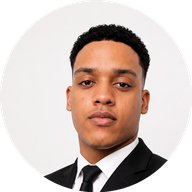
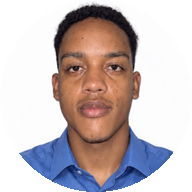
feat: rebrand completo - servicios ampliados, proceso, foto nueva
- Hero: Full-Stack Developer & Soluciones Digitales (no solo web)
- Servicios: Software, Web, IA, Ads, Seguridad (5 core)
- Sección Proceso de trabajo: Descubrimiento, Estrategia, Construcción, Lanzamiento
- Orden: Hero > Proyectos > Servicios > Proceso > Experiencia > Skills > Contacto
- Nueva foto de perfil (circular, centrada en cara)
- Favicon circular con nueva foto
- Botón idioma: muestra idioma actual (ES/EN), no el destino
- Traducciones es/en/fr actualizadas

diff --git a/src/app/shared/components/services-card/services-card.component.ts b/src/app/shared/components/services-card/services-card.component.ts
@@ -12,30 +12,25 @@ import { TechIconService } from '../../../core/services/tech-icon.service';
     <div class="p-7 h-full flex flex-col justify-between">
       <div>
         <p class="font-mono text-[10px] tracking-[0.2em] text-amber-500 uppercase font-semibold mb-1">{{ 'srv.badge' | t }}</p>
-        <h3 class="text-xl font-bold font-display text-slate-900 dark:text-white mb-4">{{ 'services.title' | t }}</h3>
+        <h3 class="text-xl font-bold font-display text-slate-900 dark:text-white mb-1">{{ 'services.title' | t }}</h3>
+        <p class="text-xs text-slate-500 dark:text-slate-400 mb-4">{{ 'services.subtitle' | t }}</p>
 
         <div class="space-y-1.5">
           @for (service of services; track service.title) {
             <div>
-              <!-- Service row (clickable) -->
               <button
                 type="button"
                 (click)="toggle(service.title)"
-                class="w-full flex items-center justify-between px-3.5 py-2 rounded-xl bg-slate-50/60 dark:bg-slate-900/40 border border-slate-100 dark:border-slate-800/60 hover:border-amber-500/40 hover:bg-amber-500/[0.04] transition-all duration-200 group cursor-pointer text-left"
+                class="w-full flex items-center justify-between px-3.5 py-2.5 rounded-xl bg-slate-50/60 dark:bg-slate-900/40 border border-slate-100 dark:border-slate-800/60 hover:border-amber-500/40 hover:bg-amber-500/[0.04] transition-all duration-200 group cursor-pointer text-left"
               >
                 <div class="flex items-center gap-3">
                   <span class="w-4 h-4 text-amber-500 flex-shrink-0" [innerHTML]="getIconSafe(service.icon)"></span>
                   <span class="text-xs font-medium text-slate-700 dark:text-slate-300 group-hover:text-slate-900 dark:group-hover:text-white transition-colors">{{ service.title | t }}</span>
                 </div>
-                <svg
-                  class="w-3.5 h-3.5 text-slate-300 dark:text-slate-600 group-hover:text-amber-500 transition-all duration-200"
-                  [class.rotate-90]="isOpen(service.title)"
-                  fill="none" stroke="currentColor" viewBox="0 0 24 24">
+                <svg class="w-3.5 h-3.5 text-slate-300 dark:text-slate-600 group-hover:text-amber-500 transition-all duration-200" [class.rotate-90]="isOpen(service.title)" fill="none" stroke="currentColor" viewBox="0 0 24 24">
                   <path stroke-linecap="round" stroke-linejoin="round" stroke-width="2" d="M9 5l7 7-7 7"/>
                 </svg>
               </button>
-
-              <!-- Expanded description -->
               @if (isOpen(service.title)) {
                 <div class="px-3.5 pt-2 pb-1 pl-10 text-xs text-slate-500 dark:text-slate-400 leading-relaxed animate-fade-in">
                   {{ service.desc | t }}
@@ -46,9 +41,8 @@ import { TechIconService } from '../../../core/services/tech-icon.service';
         </div>
       </div>
 
-      <div class="pt-3 mt-4 border-t border-slate-100 dark:border-slate-800/80 flex items-center justify-between text-[11px] text-slate-400 dark:text-slate-500">
-        <span>Soluciones a medida</span>
-        <span class="text-amber-500 font-semibold">100% Personalizado</span>
+      <div class="pt-3 mt-4 border-t border-slate-100 dark:border-slate-800/80 text-[11px] text-slate-400 dark:text-slate-500">
+        Soluciones digitales completas, desde la idea hasta la implementación.
       </div>
     </div>
   `
@@ -56,15 +50,14 @@ import { TechIconService } from '../../../core/services/tech-icon.service';
 export class ServicesCardComponent {
   private techIconService = inject(TechIconService);
   private sanitizer = inject(DomSanitizer);
-
   openService = signal<string | null>(null);
 
   services = [
-    { title: 'srv.2.title', desc: 'srv.2.desc', icon: 'Angular' },
-    { title: 'srv.6.title', desc: 'srv.6.desc', icon: 'Móvil' },
-    { title: 'srv.7.title', desc: 'srv.7.desc', icon: 'SaaS' },
-    { title: 'srv.8.title', desc: 'srv.8.desc', icon: 'Google Ads' },
-    { title: 'srv.10.title', desc: 'srv.10.desc', icon: 'n8n' }
+    { title: 'srv.core.software.title', desc: 'srv.core.software.desc', icon: 'Software' },
+    { title: 'srv.core.web.title', desc: 'srv.core.web.desc', icon: 'Angular' },
+    { title: 'srv.core.ai.title', desc: 'srv.core.ai.desc', icon: 'n8n' },
+    { title: 'srv.core.ads.title', desc: 'srv.core.ads.desc', icon: 'Google Ads' },
+    { title: 'srv.core.security.title', desc: 'srv.core.security.desc', icon: 'Seguridad' }
   ];
 
   toggle(title: string): void {

diff --git a/src/app/features/bento/bento.component.ts b/src/app/features/bento/bento.component.ts
@@ -6,6 +6,7 @@ import { SkillsCardComponent } from '../../shared/components/skills-card/skills-
 import { ExperienceCardComponent } from '../../shared/components/experience-card/experience-card.component';
 import { ServicesCardComponent } from '../../shared/components/services-card/services-card.component';
 import { ContactCardComponent } from '../../shared/components/contact-card/contact-card.component';
+import { TranslatePipe } from '../../core/i18n/translate.pipe';
 import { KEVIN_PROJECTS } from '../../core/models/project.model';
 
 @Component({
@@ -14,7 +15,7 @@ import { KEVIN_PROJECTS } from '../../core/models/project.model';
   imports: [
     CommonModule, HeroComponent, ProjectCardComponent,
     SkillsCardComponent, ExperienceCardComponent, ServicesCardComponent,
-    ContactCardComponent
+    ContactCardComponent, TranslatePipe
   ],
   template: `
     <section class="w-full max-w-6xl mx-auto px-4 md:px-6 py-10 md:py-16">
@@ -54,9 +55,29 @@ import { KEVIN_PROJECTS } from '../../core/models/project.model';
           <app-project-card [project]="projects[3]" class="block h-full"></app-project-card>
         </div>
 
-        <!-- Skills Card -->
-        <div id="skills" class="bento-glow-card scroll-mt-24">
-          <app-skills-card></app-skills-card>
+        <!-- Services -->
+        <div id="services" class="bento-glow-card md:col-span-2 scroll-mt-24">
+          <app-services-card></app-services-card>
+        </div>
+
+        <!-- Process -->
+        <div id="process" class="bento-glow-card lg:col-span-3 scroll-mt-24 p-6 md:p-8">
+          <div class="flex flex-col md:flex-row md:items-end md:justify-between gap-2 mb-6">
+            <div>
+              <p class="font-mono text-[10px] tracking-[0.2em] text-amber-500 uppercase font-semibold mb-1">{{ 'process.badge' | t }}</p>
+              <h2 class="text-2xl md:text-3xl font-bold font-display text-slate-900 dark:text-white">{{ 'process.title' | t }}</h2>
+            </div>
+            <p class="text-sm text-slate-500 dark:text-slate-400 max-w-md">{{ 'process.subtitle' | t }}</p>
+          </div>
+          <div class="grid grid-cols-1 sm:grid-cols-2 lg:grid-cols-4 gap-4">
+            @for (step of processSteps; track step.number) {
+              <div class="relative p-4 rounded-xl border border-slate-200/80 dark:border-slate-800/70 bg-slate-50/60 dark:bg-slate-900/30">
+                <span class="text-xs font-mono text-amber-500">{{ step.number }}</span>
+                <h3 class="mt-3 text-sm font-semibold text-slate-800 dark:text-white">{{ step.title | t }}</h3>
+                <p class="mt-1.5 text-xs leading-relaxed text-slate-500 dark:text-slate-400">{{ step.desc | t }}</p>
+              </div>
+            }
+          </div>
         </div>
 
         <!-- Experience (2 cols) -->
@@ -64,9 +85,9 @@ import { KEVIN_PROJECTS } from '../../core/models/project.model';
           <app-experience-card></app-experience-card>
         </div>
 
-        <!-- Services -->
-        <div id="services" class="bento-glow-card scroll-mt-24">
-          <app-services-card></app-services-card>
+        <!-- Skills Card -->
+        <div id="skills" class="bento-glow-card scroll-mt-24">
+          <app-skills-card></app-skills-card>
         </div>
 
         <!-- Contact (Full width at bottom: 3 cols) -->
@@ -80,6 +101,13 @@ import { KEVIN_PROJECTS } from '../../core/models/project.model';
 })
 export class BentoComponent {
   projects = KEVIN_PROJECTS;
+
+  processSteps = [
+    { number: '01', title: 'process.1.title', desc: 'process.1.desc' },
+    { number: '02', title: 'process.2.title', desc: 'process.2.desc' },
+    { number: '03', title: 'process.3.title', desc: 'process.3.desc' },
+    { number: '04', title: 'process.4.title', desc: 'process.4.desc' }
+  ];
 }
 
 

diff --git a/src/app/shared/components/language-switcher/language-switcher.component.ts b/src/app/shared/components/language-switcher/language-switcher.component.ts
@@ -13,9 +13,9 @@ import { TranslationService, SupportedLanguage } from '../../../core/i18n/transl
       class="inline-flex items-center justify-center gap-1.5 px-3 py-2 min-w-[60px] xl:min-w-[100px] rounded-xl border border-slate-200 dark:border-slate-700/60 bg-white dark:bg-slate-900/50 text-sm font-semibold text-slate-500 dark:text-slate-400 hover:border-indigo-300 dark:hover:border-indigo-500/50 hover:text-indigo-600 dark:hover:text-indigo-400 transition-all duration-200 shadow-sm dark:shadow-none focus:outline-none focus:ring-2 focus:ring-indigo-500/50 focus:ring-offset-2 focus:ring-offset-white dark:focus:ring-offset-[#0a0a0f]"
       [attr.aria-label]="translationService.lang() === 'es' ? 'Switch to English' : 'Cambiar a Español'"
     >
-      <span class="text-base leading-none">{{ translationService.lang() === 'es' ? '🇺🇸' : '🇪🇸' }}</span>
-      <span class="hidden xl:inline leading-none mt-[1px] font-bold">{{ translationService.lang() === 'es' ? 'English' : 'Español' }}</span>
-      <span class="xl:hidden leading-none mt-[1px] font-bold">{{ translationService.lang() === 'es' ? 'EN' : 'ES' }}</span>
+      <span class="text-base leading-none">{{ translationService.lang() === 'es' ? '🇪🇸' : '🇺🇸' }}</span>
+      <span class="hidden xl:inline leading-none mt-[1px] font-bold">{{ translationService.lang() === 'es' ? 'Español' : 'English' }}</span>
+      <span class="xl:hidden leading-none mt-[1px] font-bold">{{ translationService.lang() === 'es' ? 'ES' : 'EN' }}</span>
     </button>
   `
 })
